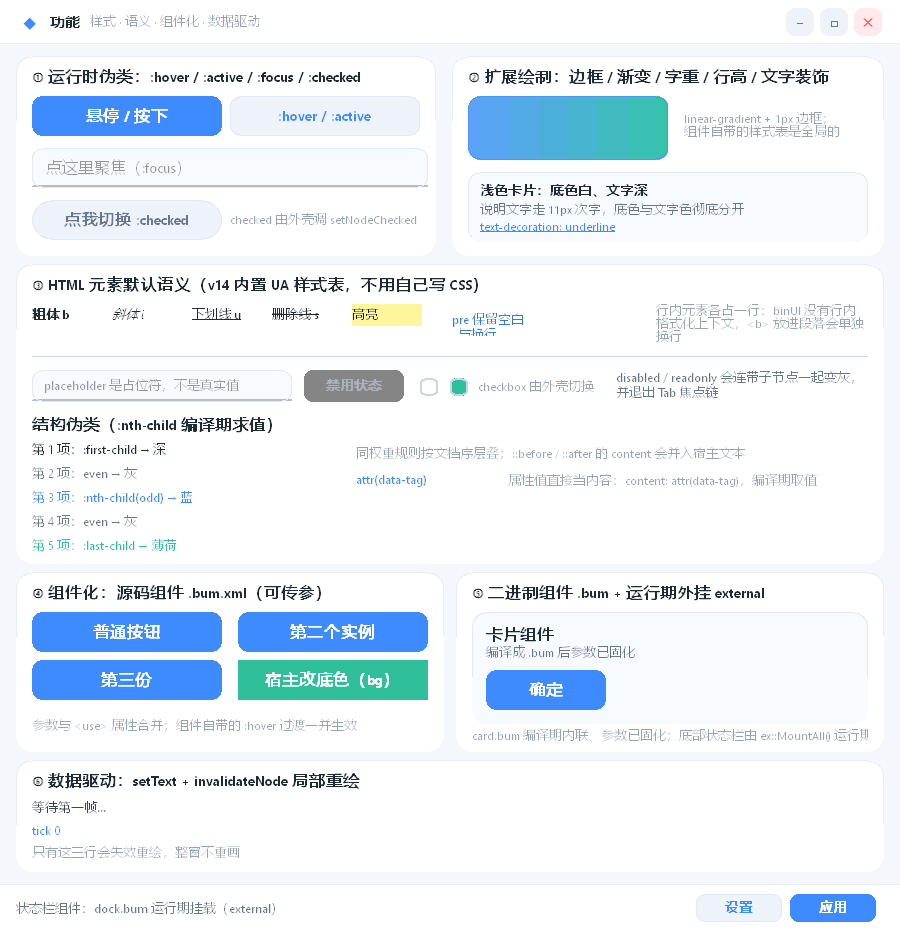
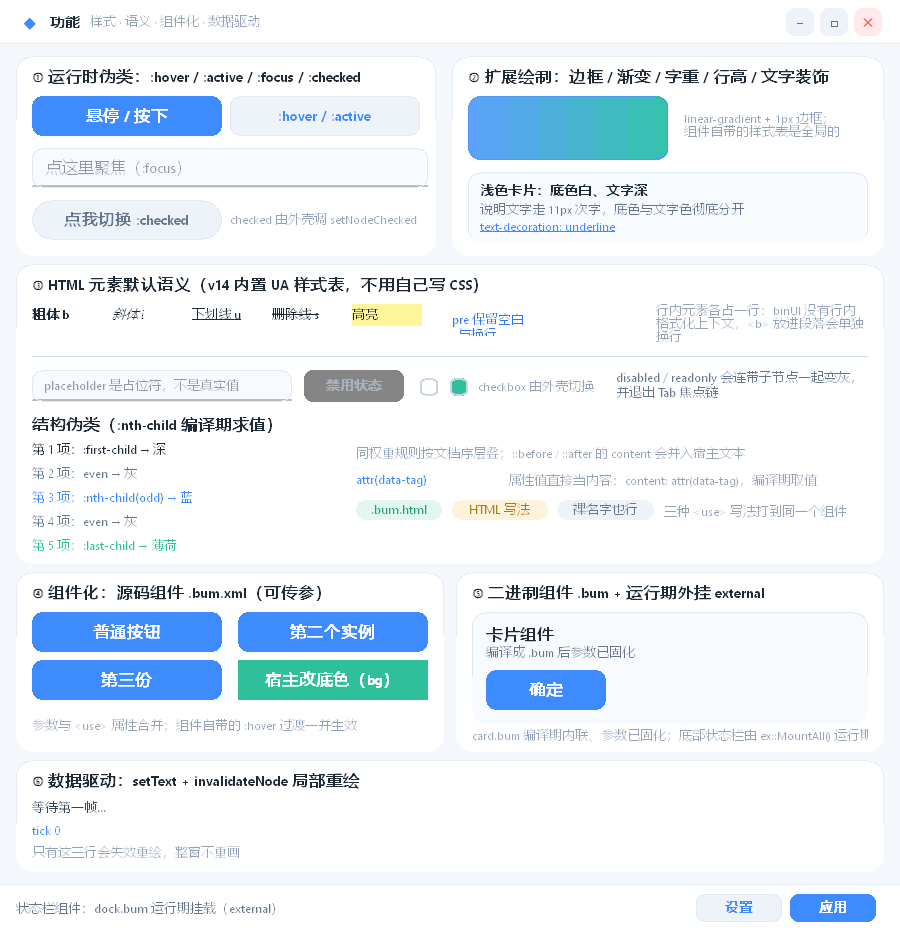
feat(components): .bum.html 组件写法补齐（裸名字 src 也能命中）
组件源码本来就交给 HTML 元素解析器处理，能力和 .bum.xml 完全一样，但 ProbeAsset
的候选表里漏了 .bum.html：

  src="tag.bum.html"  显式扩展名 —— 一直能用
  src="tag.bum"       裸名字     —— 找不到 tag.bum.html，只安静地留个空容器

现在候选表补上 .bum.html / .bui.html / .binui.html，裸名字顺序变成
<名字>.bum（二进制）→ <名字>.bum.xml → <名字>.bum.html → …（二进制优先的规则不变）。

- include/binui_asset.h：候选表补全 + 注释写明两种写法等价。
- components/tag.bum.html：库里第一个 HTML 写法组件（小标签，kind 换肤 + text-align:center），
  preview.html 与 examples/features 都用它。
- examples/features：同一行用三种 <use> 写法（显式 .bum.html / 裸名字 / 另一种 kind）
  指向同一个组件，图上一眼能看出"三种写法一个东西"。
- test_compiler：5 条断言（显式扩展名内联、参数替换、kind 换肤、裸名字命中）。
- components/README.md 新增「两种写法」一节；docs/components.md 清单加 tag；CHANGELOG 记一条。
- Makefile 的标准组件库拷贝 glob 补 *.bum.html（否则从 build-mingw/bin 跑找不到）。

顺带踩到两个坑，都记在代码里了：组件注释里不能写双花括号（会被当参数替换并告警），
注释里写 <use> 会被当成真的组件引用（要转义或改写）。

验证：make all/tools 零警告，check_examples 9 个 UI 0 问题，make test 全绿，
CMake(Ninja)+ctest 8/8，features 从源码树与 build 目录各渲染一次。

Changed region(s): [[0.3733, 0.529, 0.7156, 0.5601], [0.8089, 0.529, 0.8711, 0.5601], [0.9022, 0.529, 0.9333, 0.5601]]

diff --git a/components/tag.bum.html b/components/tag.bum.html
@@ -1,0 +1,23 @@
+<!--
+  tag.bum.html —— 标准组件库里的「HTML 写法」组件
+
+  组件源码有两种等价写法：
+      titlebar.bum.xml    XML 写法（注释写在 XML 注释里，长得更像配置）
+      tag.bum.html        这份，HTML 写法（和内联主 UI 完全一样）
+
+  能力没有任何区别 —— 组件源码本来就是交给 HTML 元素解析器处理的：
+  <style> 会并入宿主样式表、class / 伪类 / attr() 都能用、参数占位 一样替换、
+  <use> 嵌套一样生效。选哪个只看作者习惯：界面全是 HTML 的就用 .bum.html，
+  想强调"这是 XML 源"就用 .bum.xml。
+
+  <use src="tag.bum" .../> 两种都能找到（同一个候选表，.bum.xml 优先）。
+
+  参数：text 文案 / kind 配色（blue 默认, mint, amber, gray）/ w 宽 / fs 字号
+-->
+<style>
+    .bui-tag        { background: #EEF3FA; color: #66768C; border-radius: 9; font-size: 12px; }
+    .bui-tag.mint   { background: #E3F7F1; color: #1E9C7C; }
+    .bui-tag.amber  { background: #FDF3DC; color: #B07811; }
+    .bui-tag.gray   { background: #EEF3FA; color: #66768C; }
+</style>
+<span class="bui-tag {{kind=blue}}" style="width:{{w=72}}; height:20; font-size:{{fs=12}}; text-align:center">{{text=标签}}</span>

diff --git a/examples/features/main.html b/examples/features/main.html
@@ -122,6 +122,10 @@
         </div>
         <span class="note" style="position:absolute; left:340; top:180; width:520; height:20">同权重规则按文档序层叠；::before / ::after 的 content 会并入宿主文本</span>
         <span class="tag" data-tag="attr(data-tag)" style="position:absolute; left:340; top:206; width:140; height:20; font-size:12; color:#3E8BFF"></span>
+        <use src="../../components/tag.bum" x="340" y="236" w="86" text=".bum.html" kind="mint"/>
+        <use src="../../components/tag.bum.html" x="436" y="236" w="96" text="HTML 写法" kind="amber"/>
+        <use src="../../components/tag.bum" x="542" y="236" w="96" text="裸名字也行" kind="gray"/>
+        <span class="note" style="position:absolute; left:648; top:240; width:212; height:16">三种 &lt;use&gt; 写法打到同一个组件</span>
         <span class="note" style="position:absolute; left:492; top:208; width:368; height:18">属性值直接当内容：content: attr(data-tag)，编译期取值</span>
     </div>
 

diff --git a/components/preview.html b/components/preview.html
@@ -18,6 +18,8 @@
     <use src="badge.bum.xml"  x="344" y="126" w="60" text="告警" kind="amber"/>
     <use src="badge.bum.xml"  x="412" y="126" w="60" text="离线" kind="gray"/>
     <use src="toggle.bum.xml" x="488" y="118" w="104" h="38" label="开关"/>
+    <use src="tag.bum.html" x="604" y="127" w="84" text=".bum.html"/>
+    <use src="tag.bum.html" x="696" y="127" w="84" text="HTML 写法" kind="mint"/>
 
     <!-- 面板（宿主子元素成为内容） -->
     <use src="panel.bum.xml" x="20" y="176" w="352" title="panel：宿主子元素就是内容">

diff --git a/tests/test_compiler.cpp b/tests/test_compiler.cpp
@@ -1601,6 +1601,32 @@ int main() {
         TEST("v14: 深底默认白色文字", tn && tn->color == 0xFFFFFFFFu);
     }
 
+    // ---- 组件源码的 HTML 写法（.bum.html）：和 .bum.xml 等价 ----
+    {
+        const char* html =
+            "<app_window width=\"420\" height=\"200\" bg=\"#F4F7FC\"><html><body>\n"
+            "  <use id=\"t1\" src=\"components/tag.bum.html\" x=\"16\" y=\"20\" w=\"90\"\n"
+            "       text=\"HTML 写法\" kind=\"mint\"/>\n"
+            "  <use id=\"t2\" src=\"components/tag.bum\" x=\"16\" y=\"60\" w=\"90\" text=\"裸名字\"/>\n"
+            "</body></html></app_window>\n";
+        auto res = CompileBinUIEx(html);
+        BinUIRenderer r;
+        TEST("bum.html: 组件可编译加载", ParseInto(r, res.layout));
+
+        auto nodeOf = [&](uint16_t id) -> const BinUIRenderer::NodeInfo* {
+            for (const auto& n : r.getNodes()) if (n.id == id) return &n;
+            return nullptr;
+        };
+        const auto* t1 = nodeOf(r.findNodeByName("t1"));
+        const auto* t2 = nodeOf(r.findNodeByName("t2"));
+        // 根是 <span> → LABEL；参数替换 + 类名换肤都要生效
+        TEST("bum.html: 显式扩展名内联出组件根（span → LABEL）", t1 && t1->type == BINUI_LABEL);
+        TEST("bum.html: 参数 text 替换", t1 && t1->text == "HTML 写法");
+        TEST("bum.html: kind=mint 换肤", t1 && t1->color == 0xFFE3F7F1u);
+        // src="tag.bum" 的裸名字要能落到 tag.bum.html 上（同一个候选表）
+        TEST("bum.html: 裸名字 src 也命中 .bum.html", t2 && t2->text == "裸名字");
+    }
+
     // ---- v15：标准组件库 components/（根标签搬运 / 参数替换 / 插槽）----
     {
         const char* html =

diff --git a/include/binui_asset.h b/include/binui_asset.h
@@ -81,13 +81,19 @@ inline AssetFile ProbeAsset(const std::string& dir, const std::string& src) {
     const std::string low = AssetLower(src);
     std::vector<std::string> binCands, srcCands;
     if (AssetEndsWith(low, ".bum") || AssetEndsWith(low, ".bui") || AssetEndsWith(low, ".binui")) {
+        // src="card.bum" -> 二进制 card.bum，源码 card.bum.xml / card.bum.html 都认
         binCands.push_back(src);
         srcCands.push_back(src + ".xml");
+        srcCands.push_back(src + ".html");
     } else if (AssetEndsWith(low, ".xml") || AssetEndsWith(low, ".html") || AssetEndsWith(low, ".htm")) {
         srcCands.push_back(src);
     } else {
         binCands = {src + ".bum", src + ".bui", src + ".binui"};
-        srcCands = {src + ".bum.xml", src + ".bui.xml", src + ".binui.xml",
+        // 组件源码两种写法等价：.bum.xml（XML 写法）与 .bum.html（HTML 写法，
+        // 和主 UI 同一套语法）。两种都在同一个候选表里，就近优先、按顺序命中。
+        srcCands = {src + ".bum.xml", src + ".bum.html",
+                    src + ".bui.xml", src + ".bui.html",
+                    src + ".binui.xml", src + ".binui.html",
                     src + ".html", src + ".xml"};
     }
     auto pick = [&](const std::vector<std::string>& cands, bool wantBinary) -> std::string {

diff --git a/components/README.md b/components/README.md
@@ -37,7 +37,23 @@ build-mingw/bin/offscreen_render components/preview.html docs/img/std-components
 | `stat.bum.xml` | `<div>` | `k` `v` `w` `h` | 指标单元（小标签 + 加粗数值） |
 | `avatar.bum.xml` | `<img>` | `src` `size` | 圆形头像，缺图退化成浅色圆 |
 | `divider.bum.xml` | `<div>` | `len` `color` | 1px 分隔线 |
+| `tag.bum.html` | `<span>` | `text` `kind`(blue/mint/amber/gray) `w` `fs` | 小标签。**HTML 写法**的样板（见下） |
 | `statusbar.bum.xml` | `<div>` | `text` `b1` `b2` `h` `bw` | 底部状态栏（左灰字 + 右两枚次要按钮） |
+
+## 两种写法：`.bum.xml` 与 `.bum.html`
+
+组件源码可以写成两种扩展名，**能力完全一样** —— 组件文件本来就是交给 HTML 元素解析器
+处理的，`<style>` 并表、`class`/伪类/`attr()`、`{{参数}}`、嵌套 `<use>` 全都一样：
+
+```html
+<use src="../../components/tag.bum.html" text="HTML 写法" kind="mint"/>  <!-- 显式扩展名 -->
+<use src="../../components/tag.bum"      text="裸名字也行"/>              <!-- 自动找 -->
+```
+
+裸名字时的候选顺序：`<名字>.bum`（二进制）→ `<名字>.bum.xml` → `<名字>.bum.html`
+→ …（二进制优先，源码比二进制新则用源码）。`tag.bum.html` 就是库里的 HTML 写法样板：
+界面全用 HTML 写的项目，组件也照着 HTML 写就行；XML 源项目想强调"这是 XML 源"就用
+`.bum.xml`。
 
 ## 三条使用约定
 

diff --git a/CHANGELOG.md b/CHANGELOG.md
@@ -6,6 +6,22 @@
 
 ## [Unreleased]
 
+### 新增 — 组件源码支持 `.bum.html`
+
+组件一直支持两种源码写法，但只有 `.bum.xml` 在文档里出现过。`ProbeAsset` 的候选表里
+漏了 `.bum.html`：写 `src="x.bum.html"`（显式扩展名）一直能内联，写 `src="x.bum"`
+（裸名字）就找不到 `x.bum.html`，只会安静地留一个空容器。
+
+- `include/binui_asset.h`：候选表补上 `.bum.html` / `.bui.html` / `.binui.html`；
+  裸名字顺序 `<名字>.bum` → `.bum.xml` → `.bum.html` → …（二进制优先，规则不变）。
+- 标准组件库新增 `components/tag.bum.html`：库里第一个 HTML 写法的组件，
+  `examples/features` 里用三种 `<use>` 写法（显式 `.bum.html` / 裸名字）指向同一个组件。
+- `test_compiler` 新增 5 条断言：显式扩展名内联、参数替换、`kind` 换肤、裸名字命中。
+- 文档：`components/README.md` 补「两种写法」一节，`docs/components.md` 清单加 `tag`。
+
+**注意**：组件只在 HTML 解析路径下展开。`CompileXML`（`.binui.xml` 老路径）不处理
+`<use>`，那种源文件里写组件不会生效。
+
 ### 变更 — 示例砍成 6 组：功能 / 动画 / 字体 / 2D 渲染 / 3D 渲染 / 纹理
 
 原来 9 个示例各演各的，彼此重叠又都不完整（cssshow 讲伪类、components 讲组件化、

diff --git a/docs/components.md b/docs/components.md
@@ -26,6 +26,7 @@
 | `stat` | `<div>` | `k` `v` `w` `h` |
 | `avatar` | `<img>` | `src` `size` |
 | `divider` | `<div>` | `len` `color` |
+| `tag` | `<span>` | `text` `kind`(blue/mint/amber/gray) `w` `fs`（`.bum.html` 写法样板） |
 | `statusbar` | `<div>` | `text` `b1` `b2` `h` `bw` |
 
 三条约定（细节见 [`components/README.md`](../components/README.md)）：
